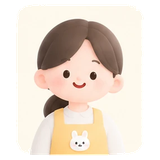
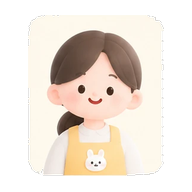
fix(fe): 그림에 틀을 더하지 않는다 — 네모 안에 네모가 생기던 것
클레이 그림은 **자기 둥근 네모를 이미 가지고 있다.** 그 위에 또 바탕과 모서리를
씌우고 있었다. 여섯 자리 전부.

    ✗  rounded-2xl bg-surface2 object-contain p-0.5      기관 아이콘
    ✗  rounded-full bg-reviewsoft object-cover           아이 얼굴 ← 모서리가 잘려 뭉툭해진다
    ✗  rounded-[18px] bg-surface object-contain p-0.5    초대 화면 보내는 쪽
    ✗  rounded-[26px] bg-surface object-contain p-1      초대 화면 아이
    ✗  rounded-[20px] bg-surface2 object-contain p-1.5   업로드 진행
    ✗  rounded-[24px] bg-surface2 object-contain p-1     업로드 막힘 카드

    ○  object-contain                                    그대로 둔다

그림자가 필요한 자리는 네모에 지는 `shadow-*` 대신 모양을 따라가는 `drop-shadow-*` 로.

## 그림 파일도 규격이 제각각이었다

원본(`assets-char/`)은 전부 투명인데 프론트 복사본이 잘못 만들어져 있었다.

| 파일 | 문제 |
| --- | --- |
| `school.png` | **투명도가 없었다** — 흰색 `#fefefe` 가 구워져 크림 바탕에 흰 네모가 떴다 |
| `center.png` · `school.png` | 160×110 · 160×126 — 정사각이 아니라 정사각 자리에서 혼자 작아 보였다 |
| `kid-04` vs `adult-01` | 좌우 여백 8 vs 14 — 같은 자리인데 인물 크기가 달랐다 |

원본에서 **192×192 정사각 · 투명 · 내용의 긴 변이 84%** 로 다시 뽑았다.
다섯 장 모두 같은 규격이라 어느 자리에 넣어도 크기가 어긋나지 않는다.

- `frontend/tools/normalize-art.py` — 다시 뽑는 도구
- `frontend/public/img/README.md` — 규격과 **틀을 씌우지 말라**는 이유

타입 검사 · 프로덕션 빌드 통과. 보호자 홈 · 초대 화면에서 확인했다.

diff --git a/frontend/app/routes/parent/invite.tsx b/frontend/app/routes/parent/invite.tsx
@@ -225,7 +225,7 @@ export default function ParentInvitePage() {
               aria-hidden
               width={92}
               height={92}
-              className="size-[92px] rounded-[26px] bg-surface object-contain p-1 shadow-[0_6px_20px_rgba(120,90,40,0.14)]"
+              className="size-[92px] object-contain drop-shadow-[0_6px_16px_rgba(120,90,40,0.2)]"
             />
           </div>
 
@@ -467,7 +467,7 @@ function Sender({ src, label }: { src: string; label: string }) {
         aria-hidden
         width={54}
         height={54}
-        className="size-[54px] rounded-[18px] bg-surface object-contain p-0.5 shadow-[0_3px_12px_rgba(120,90,40,0.1)]"
+        className="size-[54px] object-contain drop-shadow-[0_3px_10px_rgba(120,90,40,0.16)]"
       />
       <span className="text-[12px] font-semibold text-muted">{label}</span>
     </span>

diff --git a/frontend/app/components/parent/InstitutionIcon.tsx b/frontend/app/components/parent/InstitutionIcon.tsx
@@ -38,7 +38,9 @@ export function InstitutionIcon({ type }: { type?: InstitutionType | null }) {
         종류가 셋뿐이라(school · center · adult-01) 한 번 받으면 끝이다.
       */
       decoding="async"
-      className="size-11 shrink-0 rounded-2xl bg-surface2 object-contain p-0.5"
+      /* 바탕도 모서리도 주지 않는다 — 그림이 이미 둥근 네모를 가지고 있다
+         (frontend/public/img/README.md). 씌우면 네모 안에 네모가 생긴다. */
+      className="size-11 shrink-0 object-contain"
     />
   );
 }

diff --git a/frontend/app/components/org/ChildFace.tsx b/frontend/app/components/org/ChildFace.tsx
@@ -14,7 +14,9 @@ export function ChildFace({ size = 40 }: { size?: number }) {
       width={size}
       height={size}
       style={{ width: size, height: size }}
-      className="shrink-0 rounded-full bg-reviewsoft object-cover"
+      /* 동그라미로 자르지 않는다. 그림이 가진 둥근 네모의 모서리가 잘려
+         위아래가 뭉툭해진다 (frontend/public/img/README.md). */
+      className="shrink-0 object-contain"
     />
   );
 }

diff --git a/frontend/app/routes/org/upload.tsx b/frontend/app/routes/org/upload.tsx
@@ -343,7 +343,7 @@ export default function UploadPage() {
               aria-hidden
               width={84}
               height={84}
-              className="size-21 rounded-[24px] bg-surface2 object-contain p-1"
+              className="size-21 object-contain"
             />
             <span className="flex flex-col gap-1.5">
               <b className="text-[20px] font-extrabold text-ink">{blocked.head}</b>

diff --git a/frontend/app/routes/org/upload-progress.tsx b/frontend/app/routes/org/upload-progress.tsx
@@ -184,7 +184,7 @@ function End({ src, label }: { src: string; label: string }) {
         aria-hidden
         width={72}
         height={72}
-        className="size-[72px] rounded-[20px] bg-surface2 object-contain p-1.5"
+        className="size-[72px] object-contain"
       />
       <span className="text-[14px] font-bold text-ink2">{label}</span>
     </span>

diff --git a/frontend/tools/normalize-art.py b/frontend/tools/normalize-art.py
@@ -1,0 +1,45 @@
+"""
+클레이 그림을 **같은 규격**으로 다시 만든다.
+
+지금 frontend/public/img 의 파일들은 만든 방식이 제각각이다.
+  school.png   투명도가 없다 (흰색 #fefefe 가 구워져 있다)  → 크림 바탕에 흰 네모가 뜬다
+  center.png   160x110 · school 160x126                     → 정사각 타일에서 혼자 작아 보인다
+  kid-04       좌우 여백 8 · adult-01 좌우 여백 14           → 같은 타일인데 인물 크기가 다르다
+
+규격 한 줄: **정사각 · 투명 · 내용의 긴 변이 캔버스의 84%**
+그러면 네모 타일을 써도, 안 써도, 동그라미로 잘라도 서로 어긋나지 않는다.
+"""
+import sys
+from pathlib import Path
+from PIL import Image
+
+SIZE = 192          # 96px 로 그리는 자리의 2배 (레티나)
+CONTENT = 0.84      # 내용의 긴 변이 캔버스에서 차지하는 비율
+
+def build(src: Path, dst: Path) -> str:
+    im = Image.open(src).convert("RGBA")
+    box = im.getchannel("A").getbbox()
+    if box is None:
+        raise SystemExit(f"{src}: 내용이 없다 (전부 투명)")
+    art = im.crop(box)
+    w, h = art.size
+    scale = (SIZE * CONTENT) / max(w, h)
+    art = art.resize((max(1, round(w * scale)), max(1, round(h * scale))), Image.LANCZOS)
+
+    canvas = Image.new("RGBA", (SIZE, SIZE), (0, 0, 0, 0))
+    canvas.paste(art, ((SIZE - art.width) // 2, (SIZE - art.height) // 2), art)
+    dst.parent.mkdir(parents=True, exist_ok=True)
+    canvas.save(dst, optimize=True)
+    return f"{dst.name:<14} {box} {w}x{h} → {art.width}x{art.height} in {SIZE}x{SIZE}  {dst.stat().st_size//1024}KB"
+
+if __name__ == "__main__":
+    src_root, dst_root = Path(sys.argv[1]), Path(sys.argv[2])
+    pairs = [
+        ("char/school.png", "school.png"),
+        ("center.png", "center.png"),
+        ("char/kid-04.png", "kid-04.png"),
+        ("char/adult-01.png", "adult-01.png"),
+        ("char/adult-05.png", "adult-05.png"),
+    ]
+    for s, d in pairs:
+        print(build(src_root / s, dst_root / d))

diff --git a/frontend/public/img/README.md b/frontend/public/img/README.md
@@ -1,0 +1,41 @@
+# 클레이 그림 규격
+
+> **그림에 틀을 더하지 않는다.** 이 그림들은 **자기 둥근 네모를 이미 가지고 있다.**
+
+바탕색(`bg-*`)이나 모서리(`rounded-*`)를 씌우면 **네모 안에 네모**가 생긴다.
+동그라미(`rounded-full`)로 자르면 그림이 가진 네모의 모서리가 잘려 뭉툭해진다.
+
+```
+✗  <img className="size-11 rounded-2xl bg-surface2 object-contain p-0.5" />
+✗  <img className="size-10 rounded-full bg-reviewsoft object-cover" />
+○  <img className="size-11 object-contain" />
+```
+
+그림자가 필요하면 네모에 지는 `shadow-*` 가 아니라 **모양을 따라가는** `drop-shadow-*` 를 쓴다.
+
+## 규격
+
+| | |
+| --- | --- |
+| 캔버스 | **192 × 192 정사각 · 투명** (쓰는 자리가 최대 96px 이라 2배) |
+| 내용 | 긴 변이 캔버스의 **84%** · 가운데 |
+
+정사각이고 여백이 같아서, 어느 자리에 넣어도 서로 크기가 어긋나지 않는다.
+
+## 왜 규격을 적어 두는가
+
+2026-11-06 이전 파일들은 만든 방식이 제각각이었다.
+
+| 파일 | 문제 |
+| --- | --- |
+| `school.png` | **투명도가 없었다** — 흰색 `#fefefe` 가 구워져 있어 크림 바탕에 흰 네모가 떴다 |
+| `center.png` · `school.png` | 160×110 · 160×126 — **정사각이 아니라** 정사각 자리에서 혼자 작아 보였다 |
+| `kid-04` vs `adult-01` | 좌우 여백 8 vs 14 — 같은 자리인데 인물 크기가 달랐다 |
+
+## 다시 만드는 법
+
+원본은 `assets-char/`(기획 폴더)에 있고 **전부 투명**이다. 거기서 다시 뽑는다.
+
+```bash
+python frontend/tools/normalize-art.py <assets-char 경로> frontend/public/img
+```
